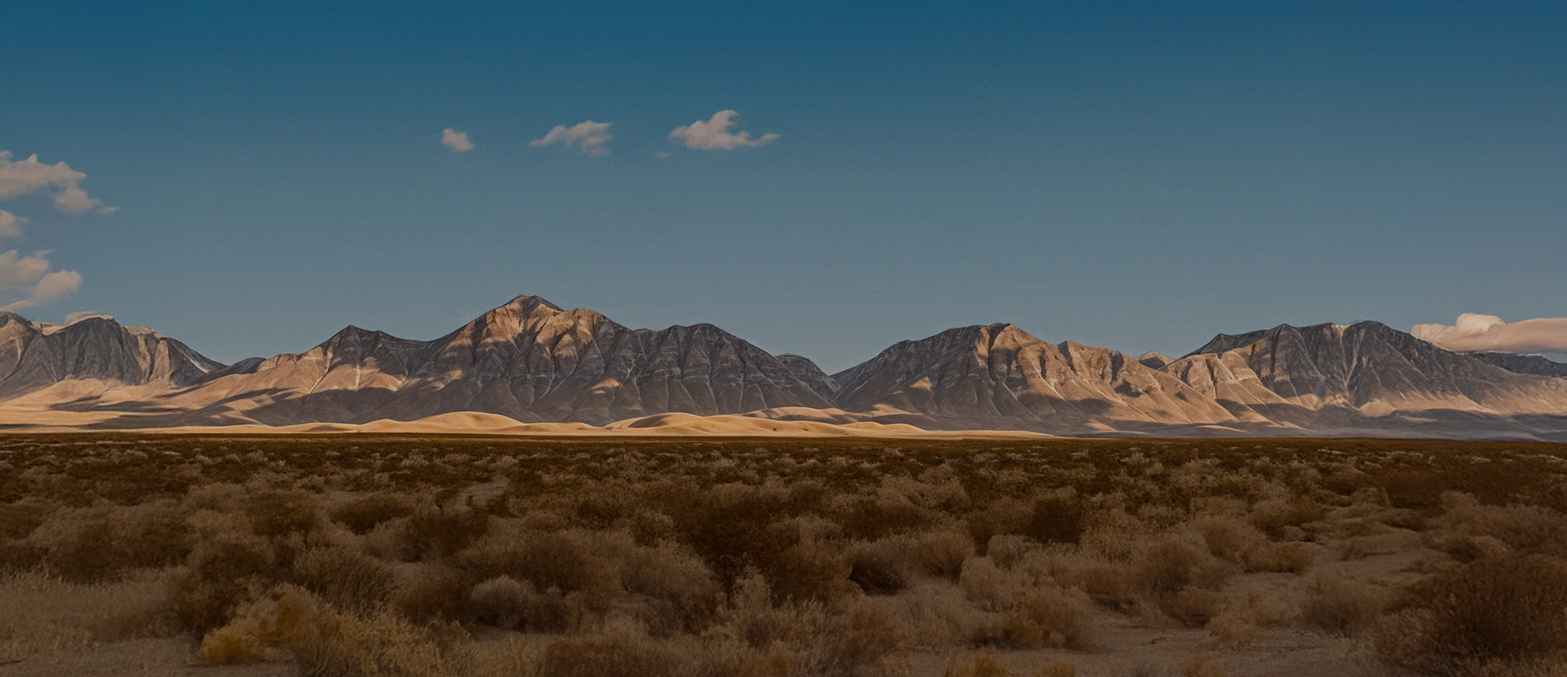
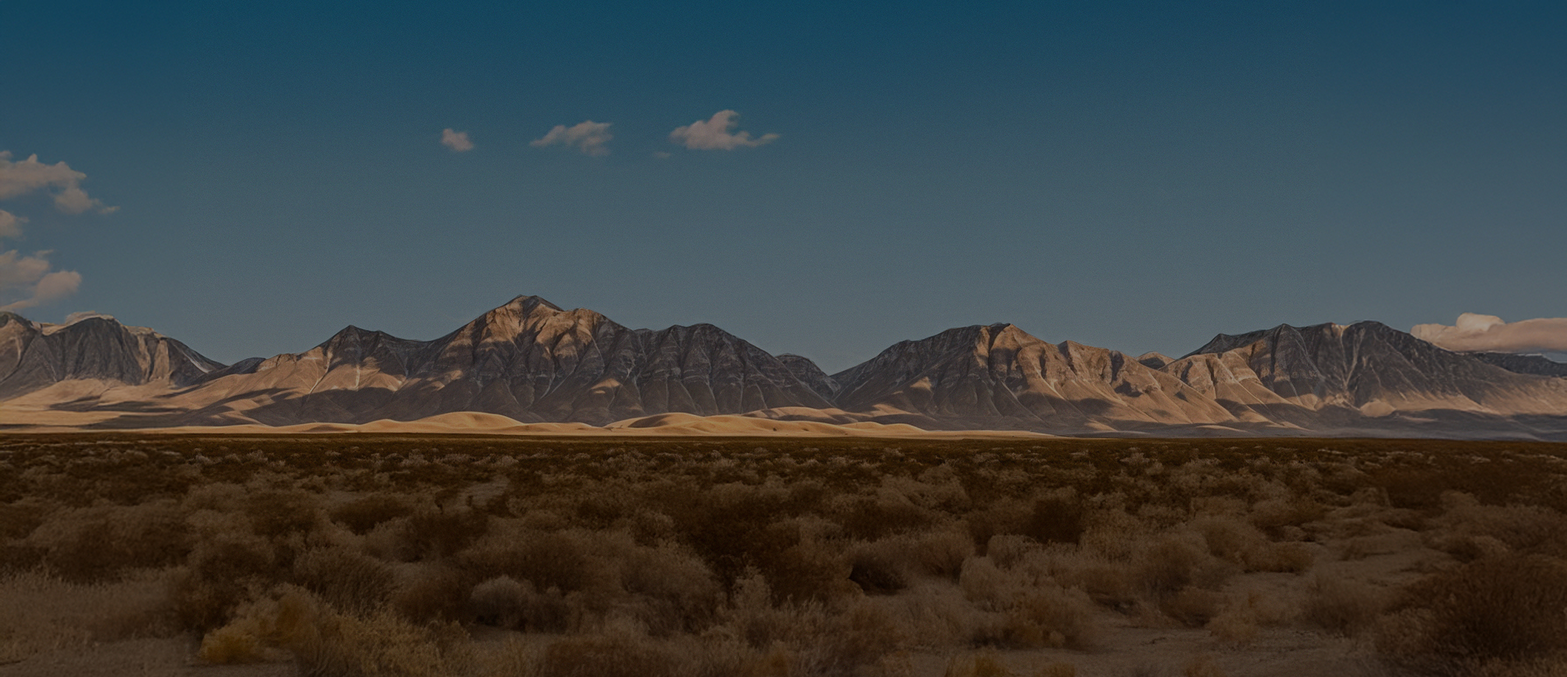
hero

diff --git a/css/custom.css b/css/custom.css
@@ -249,19 +249,42 @@ h1, h2, h3 {
 /* Hero Section */
 .hero-section {
   position: relative;
-  min-height: 50vh; /* Changed from 100vh to 50vh */
+  min-height: 50vh;
   display: flex;
   align-items: center;
-  background-image: url('/images/hero-co.jpg');
+  background-image: url('/images/copper-landscape.jpg');
   background-size: cover;
   background-position: center;
   background-attachment: fixed;
   overflow: hidden;
 }
 
+.hero-section:after {
+  content: '';
+  position: absolute;
+  left: 0;
+  right: 0;
+  bottom: 0;
+  height: 150px; /* Adjust this value to control fade height */
+  background: linear-gradient(to bottom, transparent, rgba(17, 17, 17, 1));
+  pointer-events: none;
+}
+
 .hero-section .container {
   position: relative;
   z-index: 2;
+}
+
+/* Update mobile styles */
+@media (max-width: 991px) {
+  .hero-section {
+    background-attachment: scroll;
+    padding: 50px 0;
+  }
+  
+  .hero-section h1 {
+    font-size: clamp(2rem, 6vw, 3.5rem);
+  }
 }
 
 .hero-section h1 {
@@ -324,15 +347,6 @@ h1, h2, h3 {
   .consistent-menu-inner {
     flex-direction: column;
     gap: 1.5rem;
-  }
-
-  .hero-section {
-    background-attachment: scroll;
-    padding: 50px 0; /* Reduced padding for mobile */
-  }
-  
-  .hero-section h1 {
-    font-size: clamp(2rem, 6vw, 3.5rem);
   }
 }
 
